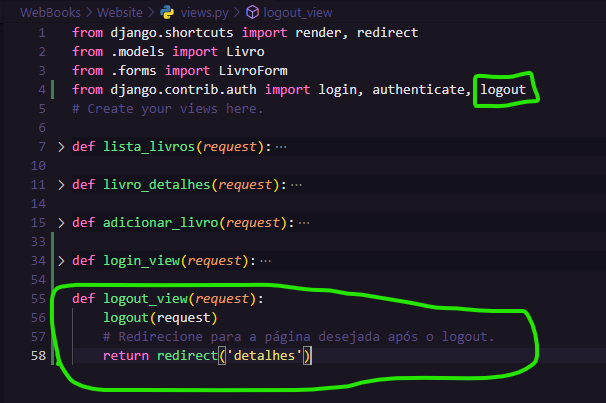
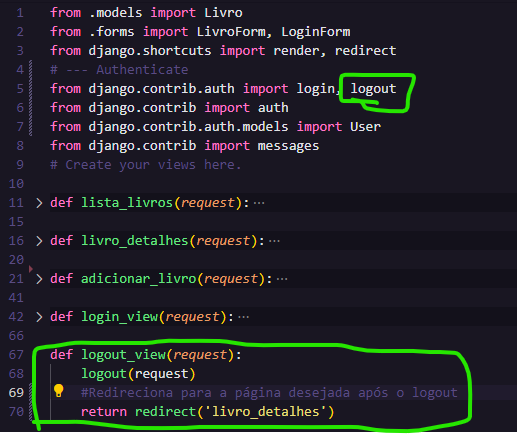
Ajustando o auth

Changed region(s): [[0.0, 0.0, 1.0, 1.0]]

diff --git a/WebBooks/Website/templates/partials/modal.html b/WebBooks/Website/templates/partials/modal.html
@@ -1,3 +1,4 @@
+{% load static %}
 <!-- Modal de Login -->
 <div class="modal fade" id="modalLogin" tabindex="-1" aria-labelledby="exampleModalLabel" aria-hidden="true">
     <div class="modal-dialog">
@@ -10,10 +11,14 @@
           <!-- Formulário de Login -->
           <form method="POST" action="{% url 'login_user' %}">
             {% csrf_token %}
-            {{ login_form.username_email.label_tag }}
-            {{ login_form.username_email }}
-            {{ login_form.password.label_tag }}
-            {{ login_form.password }}
+            <div class="form-group">
+              {{ login_form.username.label }}
+              {{ login_form.username }}
+            </div>
+            <div class="form-group">
+              {{ login_form.password.label }}
+              {{ login_form.password }}
+            </div>
             <div class="modal-footer">
               <button type="button" class="btn btn-secondary" data-bs-dismiss="modal">Cancelar</button>
               <button type="submit" class="btn btn-primary">Entrar</button>

diff --git a/WebBooks/Website/templates/usuarios_detalhes.html b/WebBooks/Website/templates/usuarios_detalhes.html
@@ -4,7 +4,8 @@
 <title>{% block title %}Livro Detalhes{% endblock %}</title>
         <!--Header-->
         {% include 'partials/header.html' %}
-
+        <!--Mensagens-->
+        {% include 'partials/alerts.html' %}
         <!--Main-->
         <main class="bg-gray">
             <img width="60%" src="{% static './img/Exemplo-img.jpg' %}" alt="Livros">

diff --git a/WebBooks/Website/templates/livro_detalhes.html b/WebBooks/Website/templates/livro_detalhes.html
@@ -4,6 +4,8 @@
 <title>{% block title %}Livro Detalhes{% endblock %}</title>
         <!--Header-->
         {% include 'partials/header.html' %}
+        <!--Mensagens-->
+        {% include 'partials/alerts.html' %}
         <!--Main-->
         <main class="bg-gray">
             <img width="60%" src="{% static './img/Exemplo-img.jpg' %}" alt="Livros">

diff --git a/WebBooks/Website/templates/adicionar_livro.html b/WebBooks/Website/templates/adicionar_livro.html
@@ -4,6 +4,8 @@
 <title>{% block title %}Adicionar Livro{% endblock %}</title>
     <!--Header-->
     {% include 'partials/header.html' %}
+    <!--Mensagens-->
+    {% include 'partials/alerts.html' %}
     <main>
         <h1>Adicionar Livro</h1>
         <form method="post" enctype="multipart/form-data" action="{% url 'adicionar_livro' %}">

diff --git a/WebBooks/Website/templates/adicionar_usuario.html b/WebBooks/Website/templates/adicionar_usuario.html
@@ -4,6 +4,8 @@
 <title>{% block title %}Adicionar Livro{% endblock %}</title>
     <!--Header-->
     {% include 'partials/header.html' %}
+    <!--Mensagens-->
+    {% include 'partials/alerts.html' %}
     <main>
         <h1>Adicionar Livro</h1>
         <form method="post" enctype="multipart/form-data" action="{% url 'adicionar_livro' %}">

diff --git a/WebBooks/Website/templates/lista_usuarios.html b/WebBooks/Website/templates/lista_usuarios.html
@@ -4,7 +4,8 @@
 <title>{% block title %}Lista de Livros{% endblock %}</title>
         <!--Header-->
         {% include 'partials/header.html' %}
-
+        <!--Mensagens-->
+        {% include 'partials/alerts.html' %}
         <!--Main-->
         <main class="bg-gray">
             <h1>Lista de Livros</h1>

diff --git a/WebBooks/Website/templates/lista_livros.html b/WebBooks/Website/templates/lista_livros.html
@@ -4,6 +4,8 @@
 <title>{% block title %}Lista de Livros{% endblock %}</title>
         <!--Header-->
         {% include 'partials/header.html' %}
+        <!--Mensagens-->
+        {% include 'partials/alerts.html' %}
         <!--Main-->
         <main class="bg-gray">
             <h1>Lista de Livros</h1>

diff --git a/WebBooks/setup/static/css/style.css b/WebBooks/setup/static/css/style.css
@@ -22,7 +22,8 @@ label {
 input[type="text"],
 input[type="date"],
 input[type="number"],
-input[type="file"] {
+input[type="file"], 
+input[type="password"] {
     width: 100%;
     padding: 10px;
     border: 1px solid #ccc;

diff --git a/WebBooks/static/css/style.css b/WebBooks/static/css/style.css
@@ -22,7 +22,8 @@ label {
 input[type="text"],
 input[type="date"],
 input[type="number"],
-input[type="file"] {
+input[type="file"], 
+input[type="password"] {
     width: 100%;
     padding: 10px;
     border: 1px solid #ccc;

diff --git a/WebBooks/Website/templates/partials/alerts.html b/WebBooks/Website/templates/partials/alerts.html
@@ -1,0 +1,8 @@
+{% if messages %} 
+    {% for message in messages %}
+        <div class = "alert alert-{{ message.tags }}">
+            {{message}}
+        </div>
+        <br>
+    {% endfor %}
+{% endif %}

diff --git a/WebBooks/Website/views.py b/WebBooks/Website/views.py
@@ -1,7 +1,12 @@
+# --- Render
+from django.shortcuts import render, redirect
+# --- Forms / BD
 from .models import Livro
 from .forms import LivroForm, LoginForm
-from django.shortcuts import render, redirect
-from django.contrib.auth import login, authenticate, logout
+# --- Authenticate
+from django.contrib.auth import login, logout
+from django.contrib import auth
+from django.contrib.auth.models import User
 from django.contrib import messages
 # Create your views here.
 
@@ -15,7 +20,6 @@ def livro_detalhes(request):
     livros = Livro.objects.all()
     return render(request, 'livro_detalhes.html', {'livros': livros, 'login_form': login_form})
 
-@login_required
 def adicionar_livro(request):
     login_form = LoginForm()
     if request.method == 'POST':
@@ -40,29 +44,29 @@ def adicionar_livro(request):
 def login_view(request):
     login_form = LoginForm()
 
+    # Verifica se o formulário possui método POST
     if request.method == 'POST':
         login_form = LoginForm(request.POST)
 
+    #Verifica se os dados inseridos no formulário são válidos
     if login_form.is_valid():
-        username_or_email = login_form['username_email'].value()
+        #Pega os dados do formulário de seus específicos names    
+        username = login_form['username'].value()
         password = login_form['password'].value()
-        # Verifica se o username_or_email parece ser um email
-        if '@' in username_or_email:
-            usuario = auth.authenticate(request, email=username_or_email, password=password)
-        else:
-            usuario = auth.authenticate(request, username=username_or_email, password=password)
+        #Faz a authenticação do usuário para verificar seus dados
+        usuario = auth.authenticate(request, username=username, password=password)
 
+        #Se os dados são coesos, o login é realizado com a authenticação
         if usuario is not None:
             auth.login(request, usuario)
-            messages.success(request, 'Foi logado com sucesso!')                # Redirecione para a url desejada após o login bem-sucedido
+            messages.success(request, 'Foi logado com sucesso!')
             return redirect('lista_livros')
         else:
-            # Usuário ou senha incorretos, você pode    adicionar uma mensagem de erro aqui                messages.error(request, 'Erro ao efetuar login')
-            return render(request, 'livro_detalhes.html')
+             messages.error(request, 'Erro ao efetuar login')
 
     return render(request, 'livro_detalhes.html', {'login_form' : login_form})
 
 def logout_view(request):
     logout(request)
-    # Redirecione para a página desejada após o logout.
-    return redirect('detalhes')
+    #Redireciona para a página desejada após o logout
+    return redirect('livro_detalhes')

diff --git a/WebBooks/Website/forms.py b/WebBooks/Website/forms.py
@@ -1,5 +1,4 @@
 from django import forms
-from django.contrib.auth.forms import AuthenticationForm
 
 class LivroForm(forms.Form):
     titulo = forms.CharField(label='Título', max_length=100)
@@ -8,6 +7,6 @@ class LivroForm(forms.Form):
     paginas = forms.IntegerField(label='Número de Páginas')
     capa = forms.ImageField(label='Capa do Livro')
 
-class LoginForm(AuthenticationForm):
-    username_email = forms.CharField(label="Nome / Email")
-    password = forms.CharField(label="Senha", widget=forms.PasswordInput)
+class LoginForm(forms.Form):
+    username = forms.CharField(label="Username", required=True, max_length=100)
+    password = forms.CharField(label="Senha", required=True, max_length=100, widget=forms.PasswordInput(attrs={'type':'password'}))
